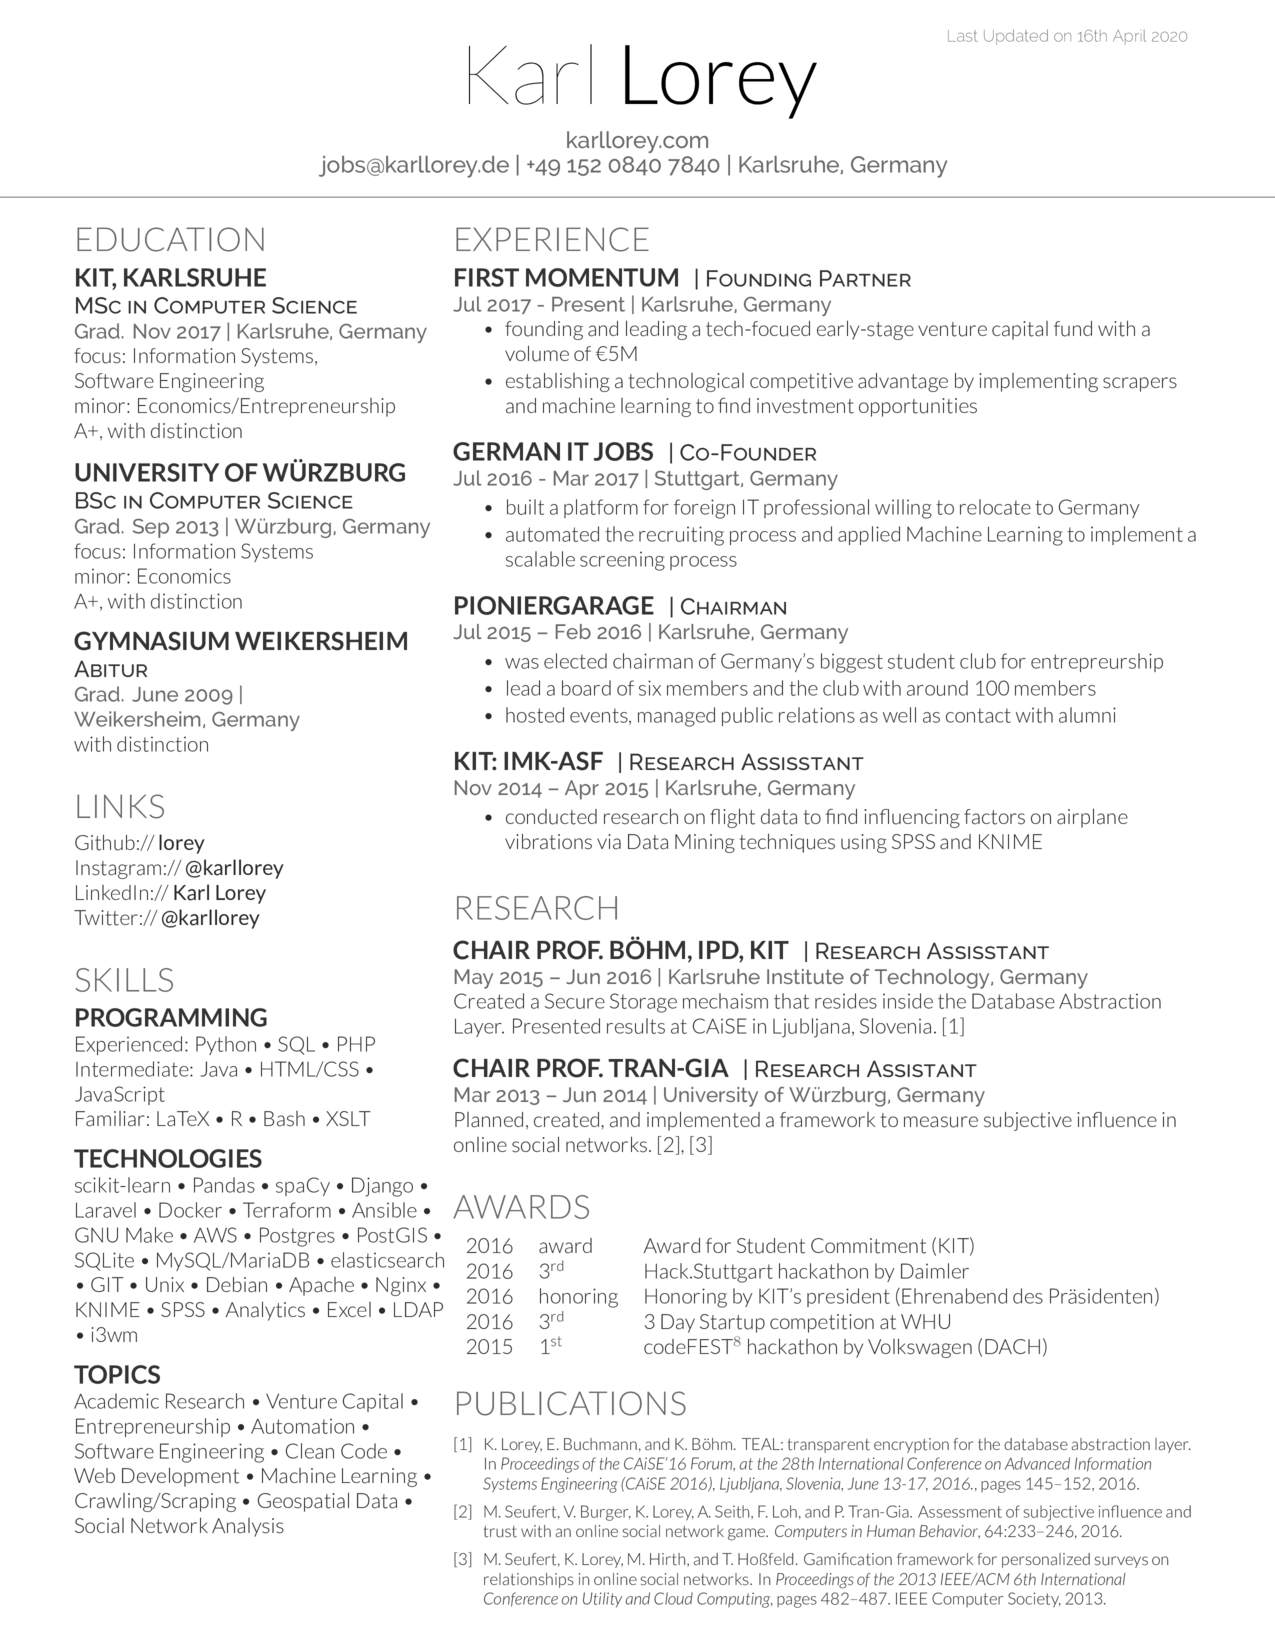
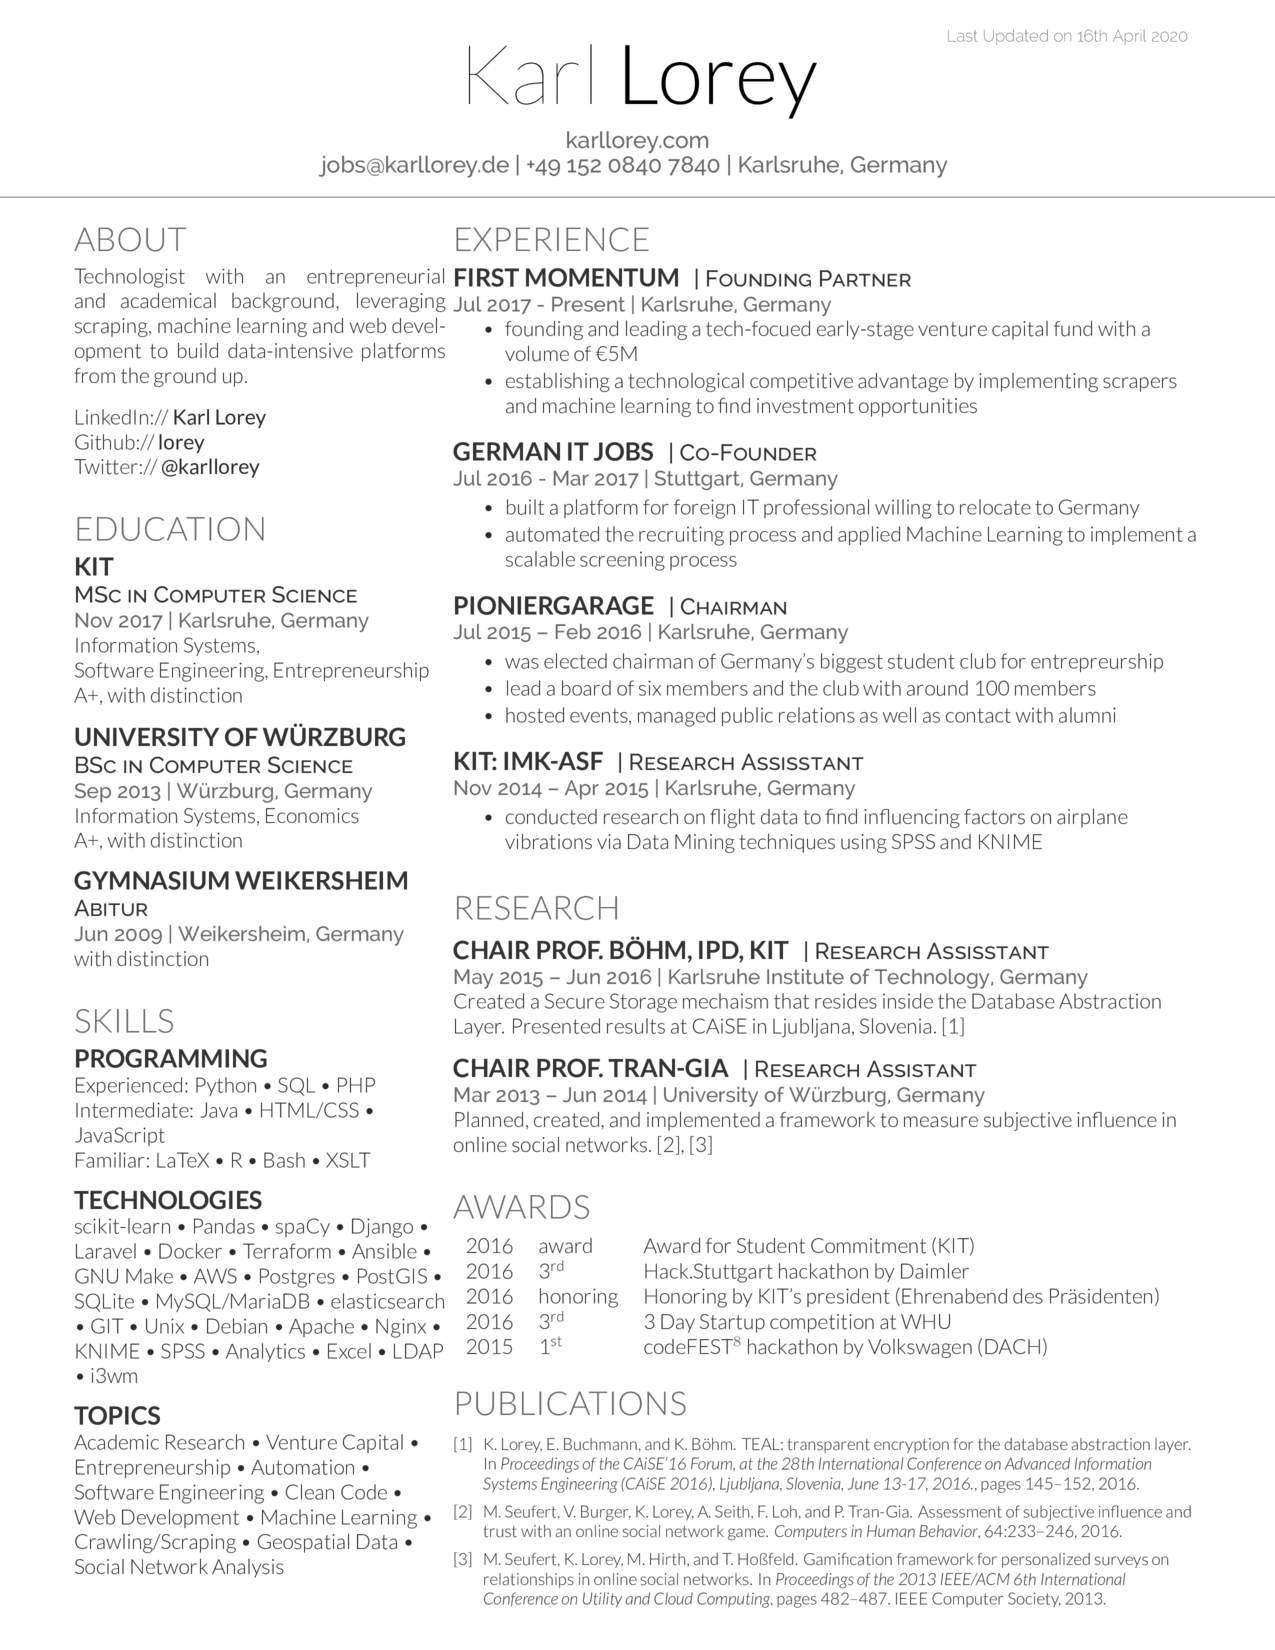
Re-structured sidebar to fit about section

Changed region(s): [[0.0612, 0.1236, 0.3671, 0.9582]]

diff --git a/README.md b/README.md
@@ -7,13 +7,15 @@ It's written in TeX, based on the awesome [Deedy Resume](https://github.com/deed
 and inspired by [Johannes Schickling's resume](https://github.com/schickling/resume).
 I added a preview generation and defined a Docker image to run it without any hassle.
 The resume itself has a smaller bibliography to fit more publications
-and a sidebar with more skills instead of coursework
+and a sidebar with an added about section 
+and  more skills instead of coursework
 to focus on actual experience.
 
 [View PDF](https://github.com/lorey/resume/raw/master/resume.pdf)
 
 ## Modifications
 * Small bibliography to fit more publications
+* Sidebar with about section at the start
 * Sidebar without coursework, IMHO superfluous if you have work experience
 * Sidebar with extended skills section, to focus on said experience
 
